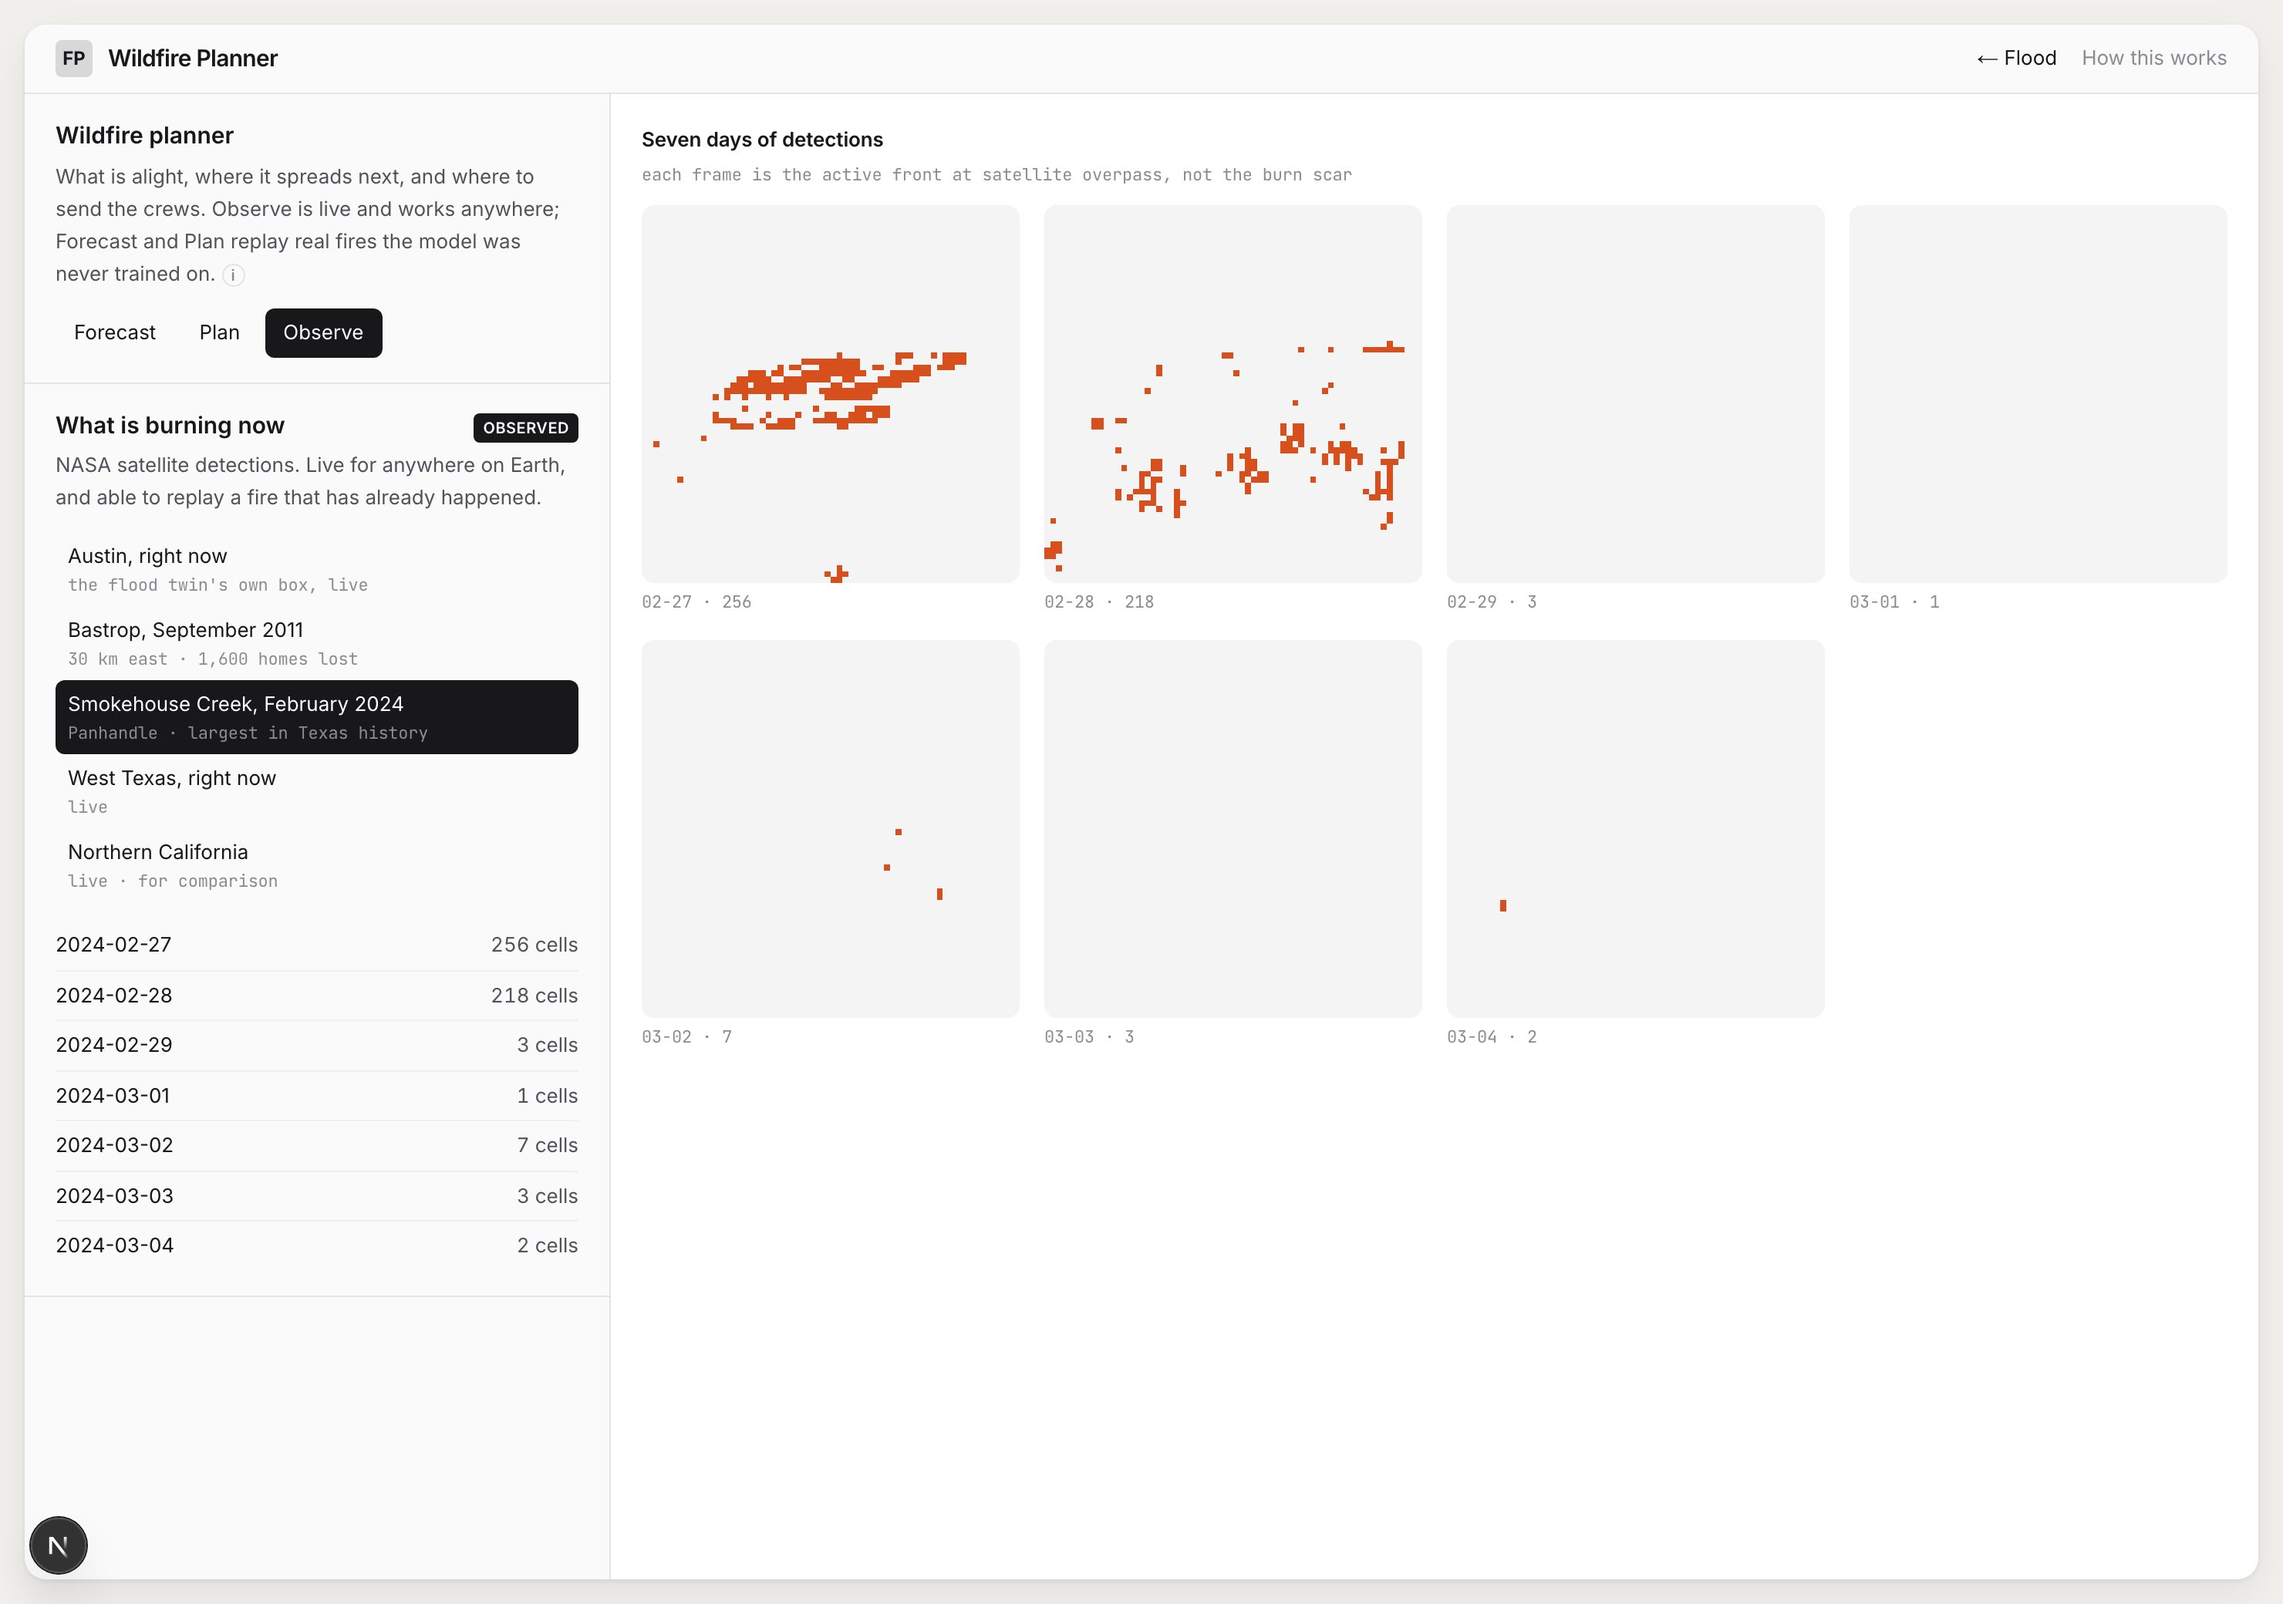
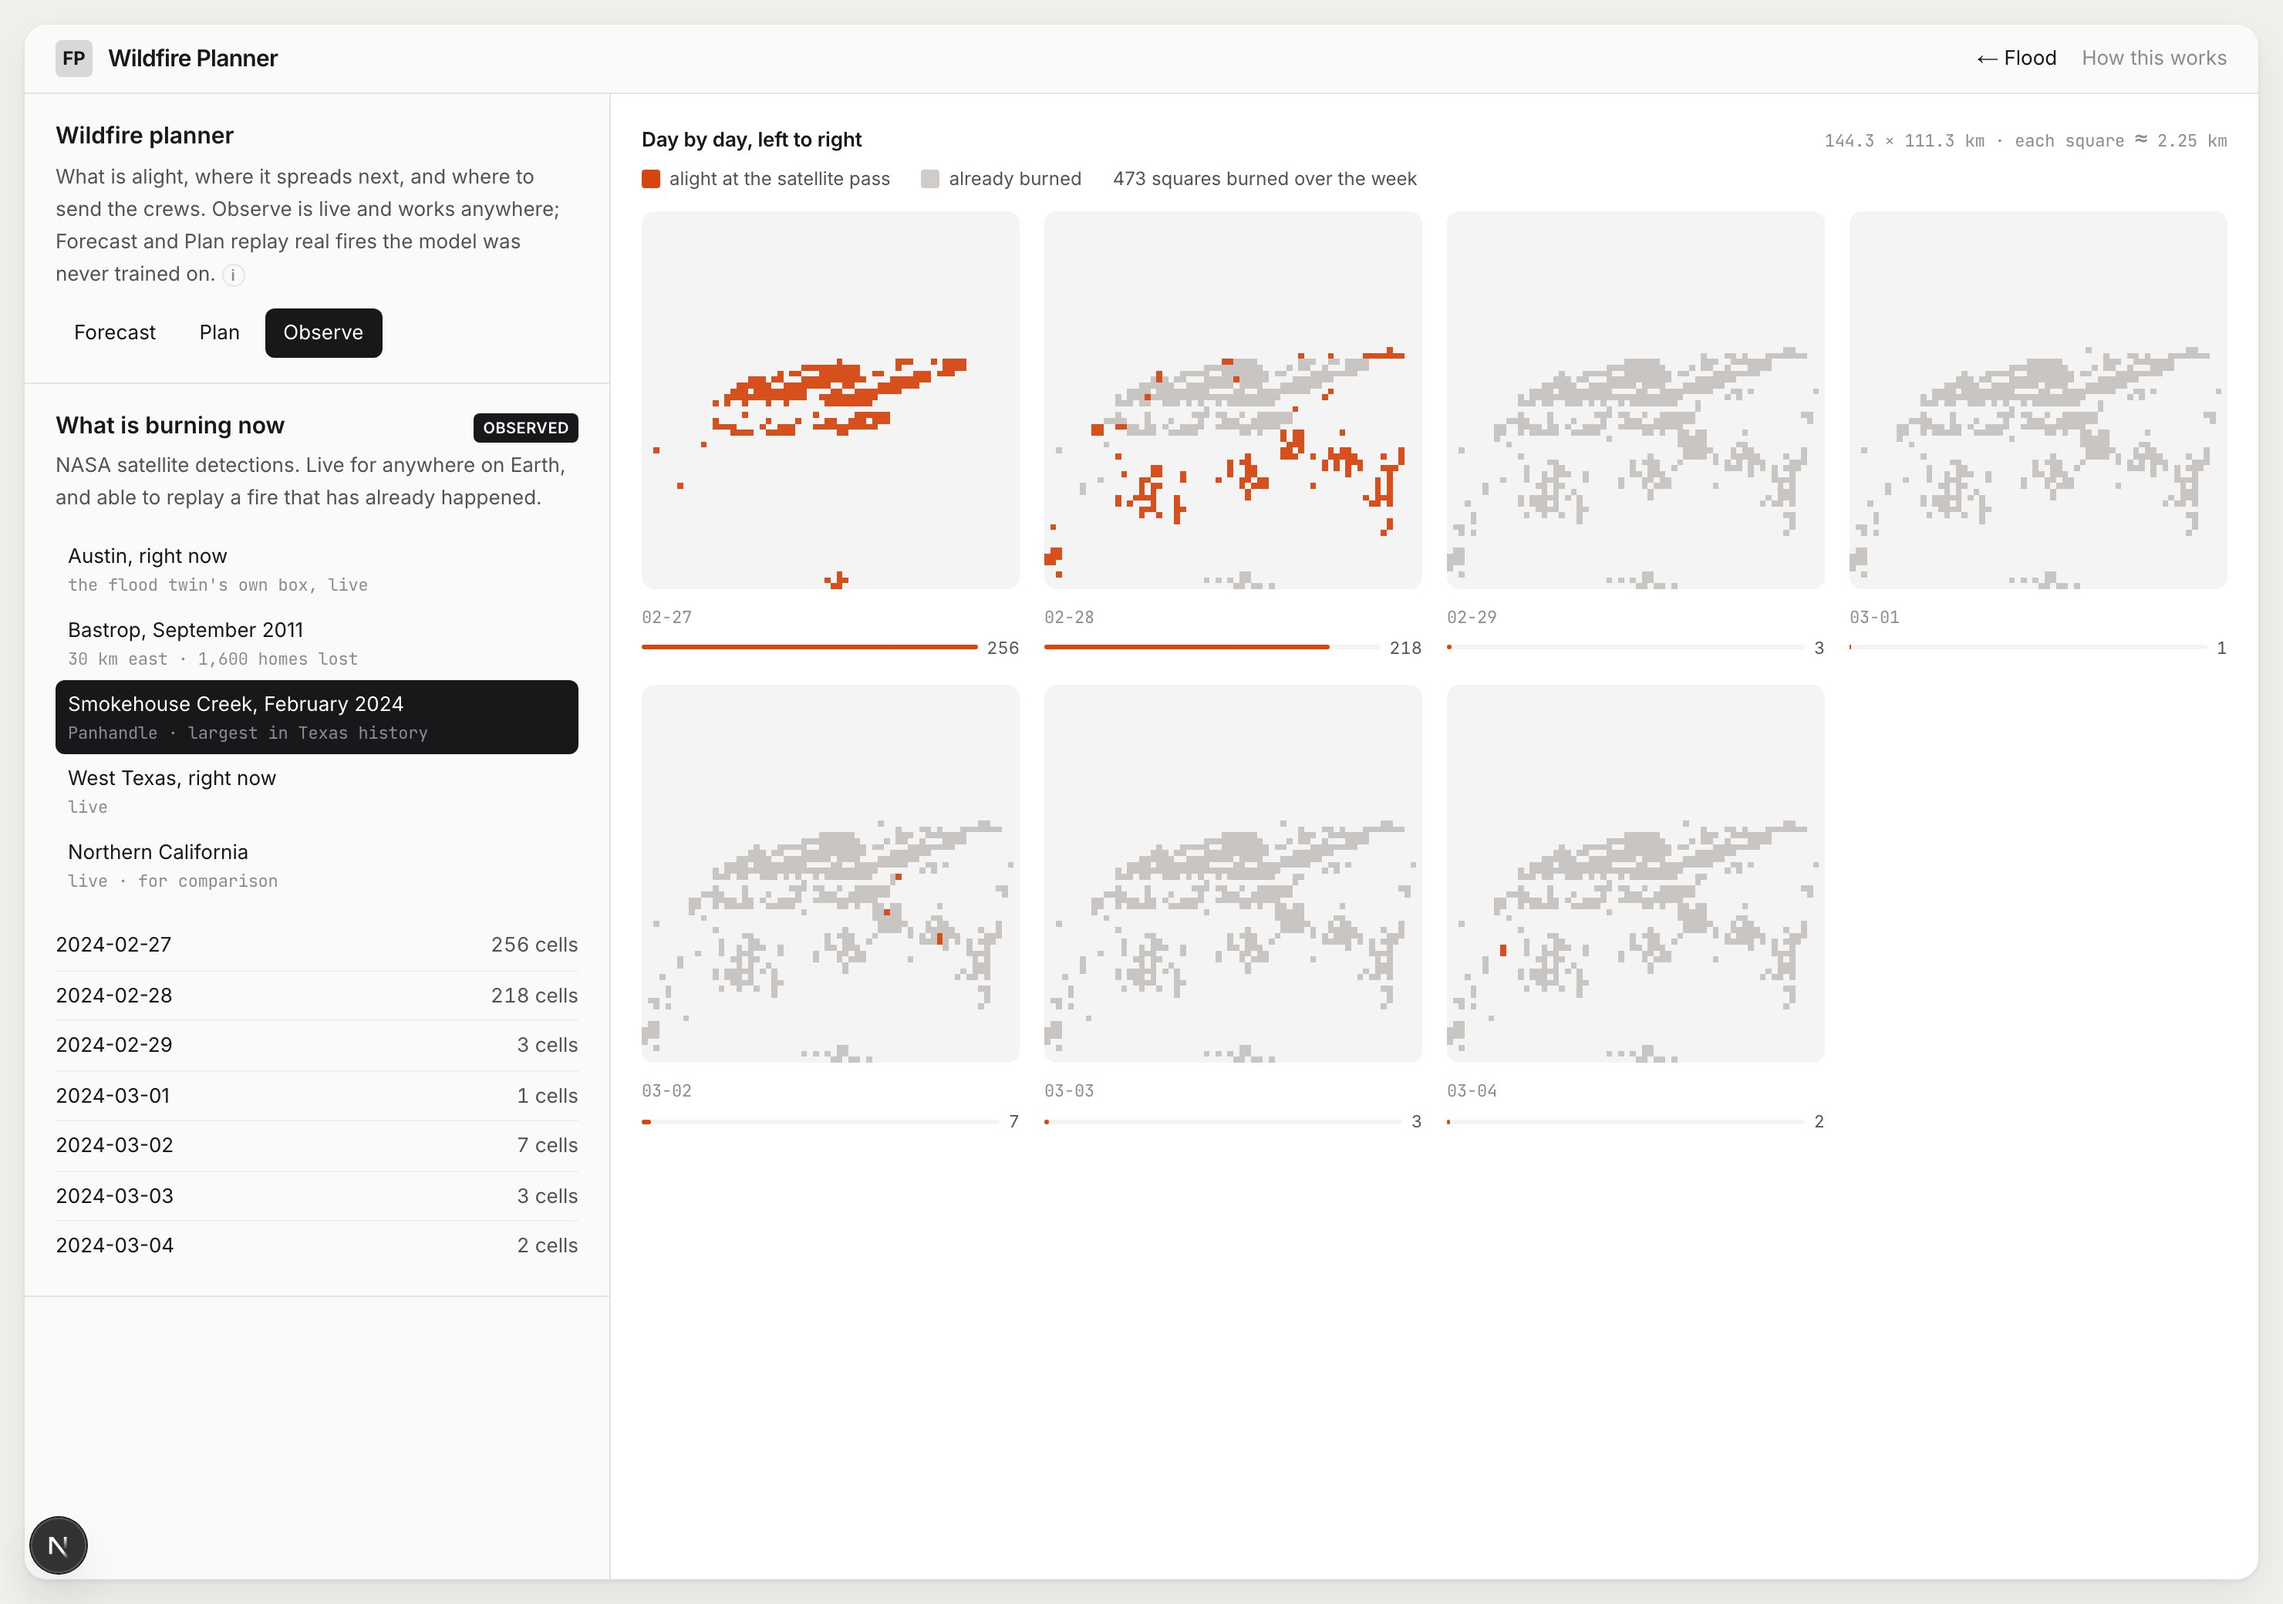
Seven scatters of red squares become one fire moving
The detection frames were unreadable, and the reason was not styling.
Each day drew only that day's active front on an empty grid, so a
sequence of seven frames showed seven unrelated scatters -- nothing in
the picture said the fire had MOVED, which is the only thing a sequence
is for. There was also no scale: a 64x64 raster of squares looks the
same at 15 km and at 150.

Three additions, each answering one of those.

The SCAR. Every frame now carries, in ash grey underneath, everything
that burned on the days before it. Smokehouse Creek then reads the way
it happened: a dense east-west front on 27 February, the front jumping
south-east on the 28th with the previous day's run already grey behind
it, and five days of a fire that is essentially out inside its own
footprint. 473 squares in a week, almost all of them in two days.

The SCALE. The box dimensions and the cell size are computed and shown:
144.3 x 111.3 km with 2.25 km squares for the Panhandle, 38.5 x 39.0 km
with 600 m squares for Bastrop. Longitude degrees shorten with latitude,
so the east-west extent uses cos(lat) rather than a flat 111 km.

A LEGEND, because two colours were doing two different jobs and nothing
on screen said which was which, plus a bar per frame so the run and the
collapse are visible without reading seven numbers and holding them in
your head.

Deliberately NOT claimed: burned area. 473 squares at 2.25 km is about
2,400 km2 against the fire's actual 4,284 km2, because FIRMS records
[…]

diff --git a/portal/src/components/FirePlanner.tsx b/portal/src/components/FirePlanner.tsx
@@ -574,6 +574,10 @@ interface ObserveReply {
   quiet_days?: number;
   window?: string[];
   live?: boolean;
+  km_across?: number;
+  km_tall?: number;
+  cell_km?: number;
+  burned_cells?: number;
   note?: string;
 }
 
@@ -744,19 +748,51 @@ function ObserveMap() {
       </div>
     );
   }
+  const peak = Math.max(...r.days.map((d) => d.cells), 1);
   return (
     <>
-      <h3 className="eyebrow">Seven days of detections</h3>
-      <p className="anno mt-1">
-        each frame is the active front at satellite overpass, not the burn scar
-      </p>
+      <div className="flex flex-wrap items-baseline justify-between gap-2">
+        <h3 className="eyebrow">Day by day, left to right</h3>
+        <p className="anno">
+          {r.km_across} × {r.km_tall} km · each square ≈ {r.cell_km} km
+        </p>
+      </div>
+
+      {/* A legend, because two colours doing two different jobs is the whole
+          point of the sequence and nothing on screen said which was which. */}
+      <div className="mt-1.5 flex flex-wrap items-center gap-x-5 gap-y-1">
+        <span className="flex items-center gap-1.5 text-[12px] text-ink-mute">
+          <span className="inline-block h-3 w-3 rounded-[2px]"
+                style={{ background: "rgb(214,69,15)" }} />
+          alight at the satellite pass
+        </span>
+        <span className="flex items-center gap-1.5 text-[12px] text-ink-mute">
+          <span className="inline-block h-3 w-3 rounded-[2px]"
+                style={{ background: "rgba(122,110,102,0.35)" }} />
+          already burned
+        </span>
+        <span className="text-[12px] text-ink-mute">
+          {r.burned_cells} squares burned over the week
+        </span>
+      </div>
+
       <div className="mt-3 grid grid-cols-2 gap-4 sm:grid-cols-4">
         {r.days.map((d) => (
           <figure key={d.date}>
-            <Raster png={d.png} alt={d.date} dim={!d.observed} />
-            <figcaption className="anno mt-1">
-              {d.date.slice(5)} ·{" "}
-              {d.cells > 0 ? `${d.cells}` : <span className="text-ink-faint">quiet</span>}
+            <Raster png={d.png} alt={d.date} />
+            <figcaption className="mt-1">
+              <span className="anno">{d.date.slice(5)}</span>
+              {/* A bar, so the run and the collapse are visible without
+                  reading seven numbers and holding them in your head. */}
+              <span className="mt-0.5 flex items-center gap-1.5">
+                <span className="h-[3px] flex-1 rounded-full bg-bg-inset">
+                  <span className="block h-full rounded-full bg-[rgb(214,69,15)]"
+                        style={{ width: `${(100 * d.cells) / peak}%` }} />
+                </span>
+                <span className="tnum text-[11px] text-ink-mute">
+                  {d.cells || "—"}
+                </span>
+              </span>
             </figcaption>
           </figure>
         ))}

diff --git a/service/fire.py b/service/fire.py
@@ -58,13 +58,19 @@ GRID = 64
 # --------------------------------------------------------------------------- #
 # rendering
 # --------------------------------------------------------------------------- #
+def _km_across(west: float, east: float, lat: float) -> float:
+    """East-west extent in km at this latitude. Longitude degrees shorten."""
+    return (east - west) * 111.32 * float(np.cos(np.radians(lat)))
+
+
 def _png(rgba: np.ndarray) -> str:
     buf = io.BytesIO()
     Image.fromarray(rgba).save(buf, format="PNG", optimize=True)
     return base64.b64encode(buf.getvalue()).decode()
 
 
-def fire_png(mask: np.ndarray, *, soft: bool = False) -> str:
+def fire_png(mask: np.ndarray, *, soft: bool = False,
+             prior: "np.ndarray | None" = None) -> str:
     """Fire as a base64 PNG. Hot where it burns, transparent where it does not.
 
     `soft` renders a probability field: the forecast is a probability per cell
@@ -87,10 +93,20 @@ def fire_png(mask: np.ndarray, *, soft: bool = False) -> str:
         # any ramp -- which drew observed fire as pale yellow, the colour a
         # ramp reserves for its hottest value. One flat vermilion instead.
         hot = x > 0.5
-        out[..., 0] = np.where(hot, 214, 0).astype(np.uint8)
-        out[..., 1] = np.where(hot, 69, 0).astype(np.uint8)
-        out[..., 2] = np.where(hot, 15, 0).astype(np.uint8)
-        out[..., 3] = np.where(hot, 240, 0).astype(np.uint8)
+        # Everything that has already burned, drawn underneath in ash. Without
+        # it each frame is a scatter of disconnected squares and a reader
+        # cannot see that the fire MOVED -- which is the only thing a sequence
+        # of frames is for. The scar is what the front leaves behind.
+        if prior is not None:
+            scar = (np.nan_to_num(prior) > 0) & ~hot
+            out[..., 0] = np.where(scar, 122, 0).astype(np.uint8)
+            out[..., 1] = np.where(scar, 110, 0).astype(np.uint8)
+            out[..., 2] = np.where(scar, 102, 0).astype(np.uint8)
+            out[..., 3] = np.where(scar, 90, 0).astype(np.uint8)
+        out[..., 0] = np.where(hot, 214, out[..., 0]).astype(np.uint8)
+        out[..., 1] = np.where(hot, 69, out[..., 1]).astype(np.uint8)
+        out[..., 2] = np.where(hot, 15, out[..., 2]).astype(np.uint8)
+        out[..., 3] = np.where(hot, 240, out[..., 3]).astype(np.uint8)
     return _png(out)
 
 
@@ -517,7 +533,13 @@ def observe(req: ObserveRequest) -> dict:
     # alight as "0 cells" and, worse, as six days of missing coverage.
     detections = [int((f > 0).sum()) for f in frames]
 
-    live = [fire_png(np.clip(f, 0, 1)) for f in frames]
+    # Each frame carries the scar of every day before it, so the sequence
+    # reads as one fire moving rather than seven unrelated scatters.
+    burned = np.zeros_like(frames[0])
+    live = []
+    for f in frames:
+        live.append(fire_png(np.clip(f, 0, 1), prior=burned.copy()))
+        burned = np.maximum(burned, f)
     any_fire = bool(frames.max() > 0)
 
     # What a day with no detections actually means, which this feed cannot
@@ -548,6 +570,14 @@ def observe(req: ObserveRequest) -> dict:
         "ok": True,
         "grid": req.grid,
         "bounds": [req.west, req.south, req.east, req.north],
+        # Scale, because a 64x64 raster of red squares is the same picture at
+        # any size and a reader cannot tell 15 km from 150.
+        "km_across": round(_km_across(req.west, req.east,
+                                      0.5 * (req.south + req.north)), 1),
+        "km_tall": round((req.north - req.south) * 111.32, 1),
+        "cell_km": round(_km_across(req.west, req.east,
+                                    0.5 * (req.south + req.north)) / req.grid, 2),
+        "burned_cells": int((burned > 0).sum()),
         "days": [{"date": d, "observed": o, "cells": c, "png": p}
                  for d, o, c, p in zip(days, seen, detections, live)],
         "any_fire": any_fire,
